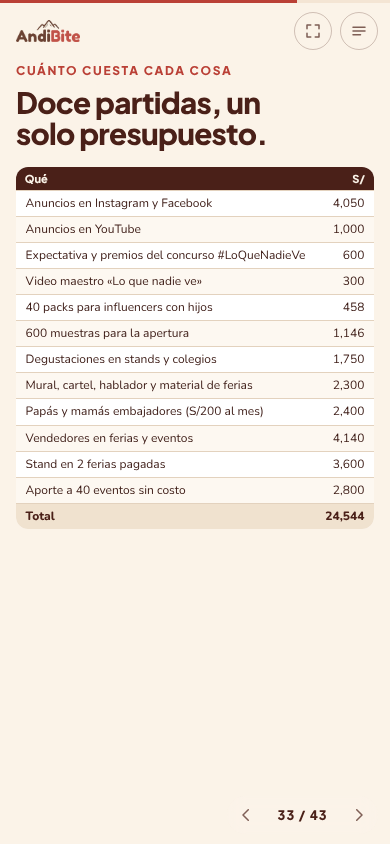
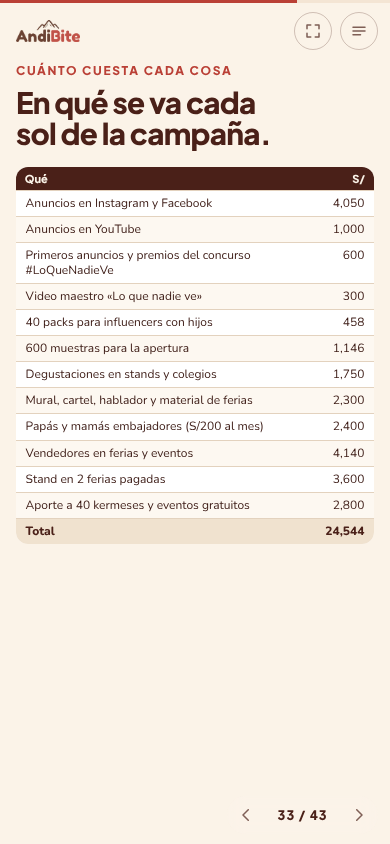
Campaña: ajustes de redacción y diseño en el capítulo reordenado
Claude-Session: https://claude.ai/code/session_01Kfbf7cfV7pXUcNjjyaPCzV

Changed region(s): [[0.0308, 0.2773, 0.9538, 0.6469], [0.0615, 0.0924, 0.6769, 0.1848]]

diff --git a/04-reformulacion/T2/web-presentacion/index.html b/04-reformulacion/T2/web-presentacion/index.html
@@ -623,7 +623,7 @@
         <ul>
           <li class="in"><i class="ico li-ico" data-icon="megaphone"></i>Publicas tu truco (video de 10 s o foto, sin tu hijo en cámara) con #LoQueNadieVe y nos etiquetas</li>
           <li class="in"><i class="ico li-ico" data-icon="chat"></i>Lo volvemos a publicar y la comunidad vota con sus me gusta</li>
-          <li class="in"><i class="ico li-ico" data-icon="star"></i>Los 3 trucos más votados abren el mural de Jockey Plaza y el adulto gana un mes de lonchera</li>
+          <li class="in"><i class="ico li-ico" data-icon="star"></i>Los 3 trucos más votados abren el mural de Jockey Plaza y quien lo publicó gana un mes de lonchera</li>
         </ul>
       </div>
       <div class="col col-mal">
@@ -645,11 +645,11 @@
     <p class="kicker in">Qué queremos lograr</p>
     <h2 class="title in">Cinco metas con fecha.</h2>
     <ol class="metas">
-      <li class="meta in"><b><span data-count="300">300</span></b><span><strong>trucos contados al 31 de enero de 2027:</strong> 150 publicados con #LoQueNadieVe y 150 escritos en el mural de Jockey Plaza. Se cuentan en la cuenta y en el mural.</span></li>
+      <li class="meta in"><b><span data-count="300">300</span></b><span><strong>trucos contados al 31 de enero de 2027:</strong> 150 publicados con #LoQueNadieVe y 150 escritos en el mural de Jockey Plaza. Se cuentan cada semana.</span></li>
       <li class="meta in"><b><span data-count="100">100</span></b><span><strong>familias en nuestro WhatsApp antes del 2 de enero</strong> y 500 seguidores al 31 de diciembre de 2026. Se miden en la lista de difusión y en Instagram.</span></li>
-      <li class="meta in"><b><span data-count="400000">400,000</span></b><span><strong>personas ven los videos en 2027;</strong> 4,100 hacen clic en «Pruébalo» o «Pídelo» y 613 escriben por WhatsApp. Se mide cada mes en Meta, YouTube y el WhatsApp de la marca.</span></li>
+      <li class="meta in"><b><span data-count="400000">400,000</span></b><span><strong>vistas de los videos en 2027;</strong> 4,100 hacen clic en «Pruébalo» o «Pídelo» y 613 escriben por WhatsApp. Se revisa cada mes en Meta, YouTube y WhatsApp.</span></li>
       <li class="meta in"><b><span data-count="3700">3,700</span></b><span><strong>brownies vendidos en enero y febrero</strong> y 52,331 en todo 2027 (S/244,728). Se cuentan cada fin de semana, punto por punto.</span></li>
-      <li class="meta in"><b><span data-count="35">35</span> %</b><span><strong>de lo vendido en físico vuelve a pedirse por WhatsApp</strong> y 2,300 familias con permiso al 31 de diciembre de 2027. Se mide cada mes en los pedidos y la lista.</span></li>
+      <li class="meta in"><b><span data-count="35">35</span> %</b><span><strong>de lo vendido en persona vuelve a pedirse por WhatsApp</strong> y 2,300 familias están en nuestra lista al 31 de diciembre de 2027. Se mide cada mes en los pedidos y la lista.</span></li>
     </ol>
   </div>
 </section>
@@ -665,8 +665,8 @@
         <p class="lead-dark in">por cada brownie vendido en 2027</p>
         <dl class="datos resumen-datos in">
           <div><dt>Cuándo</dt><dd>Octubre de 2026 a diciembre de 2027</dd></div>
-          <div><dt>Concepto</dt><dd>«Lo que nadie ve»: cada familia cuenta su truco</dd></div>
-          <div><dt>En la calle · 74 %</dt><dd>Stands, ferias, degustación, mural y embajadores</dd></div>
+          <div><dt>La idea</dt><dd>«Lo que nadie ve»: cada familia cuenta su truco</dd></div>
+          <div><dt>En la calle · 74 %</dt><dd>Stands, ferias, degustaciones, mural y embajadores</dd></div>
           <div><dt>Digital · 26 %</dt><dd>Instagram, Facebook, YouTube, WhatsApp e influencers</dd></div>
         </dl>
       </div>
@@ -687,22 +687,22 @@
 <section id="s-costos" data-sec="La campaña" data-title="Cuánto cuesta cada cosa" data-theme="light" data-background-color="#FBF3E8">
   <div class="frame">
     <p class="kicker in">Cuánto cuesta cada cosa</p>
-    <h2 class="title in">Doce partidas, un solo presupuesto.</h2>
+    <h2 class="title in">En qué se va cada sol de la campaña.</h2>
     <table class="tbl tbl-costos in">
       <thead><tr><th>Qué</th><th>Cuándo</th><th class="r">S/</th></tr></thead>
       <tbody>
         <tr><td>Anuncios en Instagram y Facebook</td><td>Enero a diciembre de 2027</td><td class="r">4,050</td></tr>
         <tr><td>Anuncios en YouTube</td><td>Enero a diciembre de 2027</td><td class="r">1,000</td></tr>
-        <tr><td>Expectativa y premios del concurso #LoQueNadieVe</td><td>Noviembre y diciembre de 2026</td><td class="r">600</td></tr>
+        <tr><td>Primeros anuncios y premios del concurso #LoQueNadieVe</td><td>Noviembre y diciembre de 2026</td><td class="r">600</td></tr>
         <tr><td>Video maestro «Lo que nadie ve»</td><td>Noviembre de 2026</td><td class="r">300</td></tr>
         <tr><td>40 packs para influencers con hijos</td><td>Diciembre de 2026</td><td class="r">458</td></tr>
         <tr><td>600 muestras para la apertura</td><td>Enero de 2027</td><td class="r">1,146</td></tr>
         <tr><td>Degustaciones en stands y colegios</td><td>Todo 2027</td><td class="r">1,750</td></tr>
-        <tr><td>Mural, cartel, hablador y material de ferias</td><td>Diciembre de 2026 a 2027</td><td class="r">2,300</td></tr>
+        <tr><td>Mural, cartel, hablador y material de ferias</td><td>Desde diciembre de 2026</td><td class="r">2,300</td></tr>
         <tr><td>Papás y mamás embajadores (S/200 al mes)</td><td>Enero a diciembre de 2027</td><td class="r">2,400</td></tr>
         <tr><td>Vendedores en ferias y eventos</td><td>Todo 2027</td><td class="r">4,140</td></tr>
         <tr><td>Stand en 2 ferias pagadas</td><td>Febrero y abril de 2027</td><td class="r">3,600</td></tr>
-        <tr><td>Aporte a 40 eventos sin costo</td><td>Todo 2027</td><td class="r">2,800</td></tr>
+        <tr><td>Aporte a 40 kermeses y eventos gratuitos</td><td>Todo 2027</td><td class="r">2,800</td></tr>
       </tbody>
       <tfoot><tr><td>Total</td><td>Quince meses</td><td class="r">24,544</td></tr></tfoot>
     </table>
@@ -713,7 +713,7 @@
 <section id="s-90" data-sec="La campaña" data-title="El truco corre de casa en casa" data-theme="dark" data-background-color="#4A2018">
   <div class="frame">
     <p class="kicker in">Cuatro etapas, de octubre de 2026 a diciembre de 2027</p>
-    <h2 class="title title-sm in">El truco corre de casa en casa.</h2>
+    <h2 class="title in">El truco corre de casa en casa.</h2>
     <div class="etapas">
       <div class="etapa e1 in"><span class="etapa-k">Prelanzamiento · oct a dic 2026</span><b>S/1,758</b><ul>
         <li>Instagram y WhatsApp abren con la pregunta “¿Cuál es tu truco?”</li>
@@ -747,7 +747,7 @@
       <div class="g-row"><span class="g-l">Influencers y concurso #LoQueNadieVe</span><span class="g-b b1" style="--s:2;--e:4"></span><span class="g-r">Angie · Patricia · Adela</span></div>
       <div class="g-row"><span class="g-l">Stands con el mural</span><span class="g-b b3" style="--s:4;--e:5"></span><span class="g-b b3" style="--s:11;--e:11"></span><span class="g-r">Carlos · vendedores</span></div>
       <div class="g-row"><span class="g-l">Ferias pagadas</span><span class="g-b b2" style="--s:5;--e:5"></span><span class="g-b b2" style="--s:7;--e:7"></span><span class="g-r">Carlos · Angie</span></div>
-      <div class="g-row"><span class="g-l">Anuncios en Meta y YouTube</span><span class="g-b b2" style="--s:4;--e:16"></span><span class="g-r">Angie</span></div>
+      <div class="g-row"><span class="g-l">Anuncios en Meta y YouTube</span><span class="g-b b2" style="--s:4;--e:15"></span><span class="g-r">Angie</span></div>
       <div class="g-row"><span class="g-l">Recompra por WhatsApp</span><span class="g-b b4" style="--s:4;--e:15"></span><span class="g-r">Coordinadora · Angie</span></div>
       <div class="g-row"><span class="g-l">Papás y mamás embajadores</span><span class="g-b b4" style="--s:4;--e:15"></span><span class="g-r">Carlos · coordinadora</span></div>
       <div class="g-row"><span class="g-l">«Escanea tu pack»</span><span class="g-b b1" style="--s:4;--e:7"></span><span class="g-b b1" style="--s:11;--e:11"></span><span class="g-r">Coordinadora · Angie</span></div>
@@ -765,7 +765,7 @@
     <div class="ad">
       <div class="ad-media in"><div class="media media-v" data-video="vid/anuncio_a.mp4" data-media="img/campana/campana_1.jpg" data-label="VIDEO Claudia" data-note="9:16 · 8 s"></div></div>
       <div class="ad-txt">
-        <p class="kicker in">Publicidad en redes y YouTube · Anuncio para Claudia · Lima Top</p>
+        <p class="kicker in">Anuncio en redes y YouTube · Para Claudia, de Lima Top</p>
         <h2 class="ad-hook in">“Confieso: el jugo verde nunca le dio superpoderes.”</h2>
         <p class="ad-body in">Leí etiquetas, licué espinaca y le inventé un superhéroe. El vaso volvía lleno. Ahora su hierro va escondido en un mini brownie que me pide, y en la app veo cuánto llevó hoy.</p>
         <div class="ad-ctas in"><span class="pieza-cta">Pruébalo en el stand</span><span class="pieza-cta cta-alt">Pídelo por WhatsApp</span></div>
@@ -786,7 +786,7 @@
     <div class="ad">
       <div class="ad-media in"><div class="media media-v" data-video="vid/anuncio_b.mp4" data-media="img/campana/campana_2.jpg" data-label="VIDEO Rodrigo" data-note="9:16 · 8 s"></div></div>
       <div class="ad-txt">
-        <p class="kicker in">Publicidad en redes y YouTube · Anuncio para Rodrigo · Lima Moderna</p>
+        <p class="kicker in">Anuncio en redes y YouTube · Para Rodrigo, de Lima Moderna</p>
         <h2 class="ad-hook in">“Mi truco: el que se lo acaba primero elige la música del carro.”</h2>
         <p class="ad-body in">Con el pan funcionaba. Con la menestra de la lonchera, ni con su canción favorita. Ahora lleva un mini brownie con hierro que se come sin carrera: la semana entera en un pack de 12 por WhatsApp.</p>
         <div class="ad-ctas in"><span class="pieza-cta">Pídelo por WhatsApp</span><span class="pieza-cta cta-alt">Pruébalo en el stand</span></div>
@@ -807,7 +807,7 @@
     <div class="ad">
       <div class="ad-media in"><div class="media media-v" data-video="vid/testimonial.mp4" data-media="img/campana/campana_3.jpg" data-label="VIDEO familia real" data-note="9:16 · 8 s"></div></div>
       <div class="ad-txt">
-        <p class="kicker in">Publicidad en redes y YouTube · Testimonial de una familia real</p>
+        <p class="kicker in">Anuncio en redes y YouTube · Testimonio de una familia real</p>
         <h2 class="ad-hook in">“Mi truco era decirle que el hígado era carne de dinosaurio.”</h2>
         <p class="ad-body in">“Ahora no le cuento nada: le mando su brownie y la lonchera vuelve vacía. Lo que antes no veía, su hierro de cada día, ahora lo veo en la app.”</p>
         <div class="ad-ctas in"><span class="pieza-cta">Pruébalo en el stand</span><span class="pieza-cta cta-alt">Pídelo por WhatsApp</span></div>
@@ -930,7 +930,7 @@
 <section id="a-presupuesto" class="annex" data-annex="1" data-sec="Anexos" data-title="Presupuesto de marketing" data-theme="light" data-background-color="#FBF3E8">
   <div class="frame">
     <p class="kicker">Anexo 1 · Presupuesto de marketing</p>
-    <h2 class="title title-sm">S/24,544 de octubre de 2026 a diciembre de 2027</h2>
+    <h2 class="title title-sm">S/24,544 de octubre de 2026 a diciembre de 2027.</h2>
     <div class="tables2">
       <table class="tbl">
         <thead><tr><th>Tipo de medio</th><th class="r">S/</th><th class="r">%</th></tr></thead>
@@ -959,7 +959,7 @@
 <section id="a-kpi" class="annex" data-annex="2" data-sec="Anexos" data-title="Control de KPI" data-theme="light" data-background-color="#FBF3E8">
   <div class="frame">
     <p class="kicker">Anexo 2 · Control de KPI (indicadores clave)</p>
-    <h2 class="title title-sm">KPI principales y qué hacemos si no se cumplen</h2>
+    <h2 class="title title-sm">KPI principales y qué hacemos si no se cumplen.</h2>
     <table class="tbl tbl-wide">
       <thead><tr><th>KPI</th><th>Meta 2027</th><th>Frecuencia</th><th>Si no se cumple</th></tr></thead>
       <tbody>
@@ -971,10 +971,10 @@
         <tr><td><b>Familias por embajadores</b></td><td>230 en el año</td><td>Mensual</td><td>Más salones o cambiar el premio (a papá o mamá)</td></tr>
         <tr><td><b>Colegios con quiosco</b></td><td>5 (2 A y 3 B)</td><td>Mensual</td><td>Visitar cadenas de pensión media</td></tr>
         <tr><td><b>Costo por contacto en Meta</b></td><td>S/5 o menos</td><td>Mensual</td><td>Más de S/8 por 2 meses: cambiar anuncio</td></tr>
-        <tr><td><b>Trucos contados</b></td><td>300 al 31 de enero (150 en redes, 150 en el mural)</td><td>Semanal</td><td>Más pauta al concurso y post-its en cada degustación</td></tr>
-        <tr><td><b>Videos vistos y clics</b></td><td>400,000 vistas y 4,100 clics en 2027</td><td>Mensual</td><td>Cambiar el gancho del anuncio que menos clics traiga</td></tr>
+        <tr><td><b>Trucos contados</b></td><td>300 al 31 de enero (150 en redes, 150 en el mural)</td><td>Semanal</td><td>Más anuncios para el concurso y post-its en cada degustación</td></tr>
+        <tr><td><b>Videos vistos y clics</b></td><td>400,000 vistas y 4,100 clics en 2027</td><td>Mensual</td><td>Cambiar el inicio del anuncio que traiga menos clics</td></tr>
         <tr><td><b>Conversaciones por WhatsApp desde anuncios</b></td><td>613 en 2027 (195 + 195 + 223)</td><td>Mensual</td><td>Probar otro llamado a la acción</td></tr>
-        <tr><td><b>Seguidores</b></td><td>500 en diciembre de 2026; 4,000 en diciembre de 2027</td><td>Mensual</td><td>Más trucos de la comunidad y menos producto</td></tr>
+        <tr><td><b>Seguidores</b></td><td>500 en diciembre de 2026; 4,000 en diciembre de 2027</td><td>Mensual</td><td>Publicar más trucos de las familias y menos producto</td></tr>
       </tbody>
     </table>
   </div>
@@ -983,16 +983,16 @@
 <section id="a-roi" class="annex" data-annex="3" data-sec="Anexos" data-title="Retorno (ROI)" data-theme="light" data-background-color="#FBF3E8">
   <div class="frame">
     <p class="kicker">Anexo 3 · Retorno de la inversión (ROI)</p>
-    <h2 class="title title-sm">Cada sol que ponen los socios devuelve S/0.42; cada sol de marketing, S/0.74.</h2>
+    <h2 class="title title-sm">En 2027, cada sol de los socios gana S/0.42 y cada sol de marketing, S/0.74.</h2>
     <table class="tbl tbl-wide">
       <thead><tr><th>Indicador</th><th>Valor</th><th>Qué significa</th></tr></thead>
       <tbody>
-        <tr><td><b>ROI del negocio, 2027</b></td><td class="em">42 %</td><td>Los socios ponen S/25,000. El primer año deja S/10,379 de utilidad neta: S/0.42 por cada sol puesto.</td></tr>
-        <tr><td><b>ROI de marketing, 2027</b></td><td class="em">74 %</td><td>Lo que dejan las ventas después de producir y pagar los stands es S/56,824. Tres cuartas partes (S/42,618) se deben a la campaña. Restando los S/24,544 invertidos quedan S/18,074: S/0.74 por cada sol de marketing.</td></tr>
-        <tr><td><b>Punto de empate de la campaña</b></td><td class="em">43 %</td><td>Si solo el 43 % de esas ventas viniera de la campaña, se recupera lo invertido sin ganar ni perder. Si fuera menos, la campaña pierde.</td></tr>
-        <tr><td><b>Resultado operativo, 2027</b></td><td class="em">S/13,423</td><td>6.5 % de las ventas. Desde marzo todos los meses ganan.</td></tr>
-        <tr><td><b>Inversión inicial</b></td><td class="em">S/40,876</td><td>S/25,000 de los socios y S/16,000 de préstamo. Se recupera en el mes 23 (noviembre de 2028).</td></tr>
-        <tr><td><b>2028</b></td><td class="em">S/322,329</td><td>70,452 brownies vendidos y S/28,447 de utilidad neta.</td></tr>
+        <tr><td><b>ROI del negocio, 2027</b></td><td class="em">42 %</td><td>Los socios ponen S/25,000. En el primer año, ya pagado todo, quedan S/10,379 de ganancia: S/0.42 por cada sol.</td></tr>
+        <tr><td><b>ROI de marketing, 2027</b></td><td class="em">74 %</td><td>Después de producir y pagar los stands, las ventas dejan S/56,824. Tres cuartas partes (S/42,618) llegan gracias a la campaña. Si le quitamos los S/24,544 que costó, quedan S/18,074: S/0.74 por cada sol.</td></tr>
+        <tr><td><b>Punto de empate de la campaña</b></td><td class="em">43 %</td><td>Basta con que el 43 % de esas ventas venga de la campaña para recuperar lo que costó. Con menos, la campaña pierde plata.</td></tr>
+        <tr><td><b>Resultado operativo, 2027</b></td><td class="em">S/13,423</td><td>Lo que gana el negocio antes de intereses e impuestos: 6.5 % de las ventas. Desde marzo, todos los meses dejan ganancia.</td></tr>
+        <tr><td><b>Inversión inicial</b></td><td class="em">S/40,876</td><td>Lo que hace falta para arrancar. Se cubre con S/25,000 de los socios y un préstamo de S/16,000, y se recupera en el mes 23 (noviembre de 2028).</td></tr>
+        <tr><td><b>2028</b></td><td class="em">S/322,329</td><td>Lo que venden 70,452 brownies. La ganancia final es S/28,447.</td></tr>
       </tbody>
     </table>
   </div>
@@ -1001,7 +1001,7 @@
 <section id="a-foda" class="annex" data-annex="4" data-sec="Anexos" data-title="FODA cruzado" data-theme="light" data-background-color="#FBF3E8">
   <div class="frame">
     <p class="kicker">Anexo 4 · FODA cruzado (fortalezas, oportunidades, debilidades y amenazas)</p>
-    <h2 class="title title-sm">Cuatro estrategias que ya están en el plan</h2>
+    <h2 class="title title-sm">Cuatro estrategias que ya están en el plan.</h2>
     <div class="foda">
       <div class="fq fq-fo"><b>FO · Explotar</b><p>Quioscos de colegios con la versión sin octógono (meta: 5). Recompra por WhatsApp con el aviso de la app.</p></div>
       <div class="fq fq-do"><b>DO · Superar</b><p>Degustación: el niño prueba y los padres deciden. Papás y mamás embajadores: 230 familias nuevas.</p></div>

diff --git a/04-reformulacion/T2/web-presentacion/src/style.css b/04-reformulacion/T2/web-presentacion/src/style.css
@@ -1402,3 +1402,20 @@ body.is-hero .ui-brand { visibility: hidden; }
 .resumen-datos dd { color: var(--tx); }
 .resumen-datos dt { color: var(--rojo); }
 @media (orientation: portrait), (max-width: 700px) { .etapa li:nth-child(n+2) { display: none; } .etapas { gap: 8px; } }
+
+/* ---- Diseñador: capítulo de campaña ---- */
+#s-gasto .big-md { font-size: clamp(44px, calc(4.2 * var(--u)), 84px); }
+#s-gasto .precio { margin-top: calc(1.6 * var(--u)); }
+#s-gasto .precio-l .lead-dark { max-width: none; text-wrap: balance; }
+.etapa-k { white-space: nowrap; letter-spacing: .06em; }
+#s-equipo .tm { align-items: start; align-content: start; padding-top: calc(1.5 * var(--u)); }
+#s-equipo .tm h3 { text-wrap: balance; }
+.media-bleed .ph { top: 50%; transform: translateY(-50%); width: 38%; aspect-ratio: 16 / 9; display: grid; place-content: center; }
+#s-dinamica .closer { text-wrap: balance; }
+@media (orientation: portrait), (max-width: 700px) {
+  #s-metas .metas { margin-top: 16px; align-content: start; }
+  #s-90 .etapas { margin-top: 16px; }
+  #s-dinamica .frame { justify-content: center; }
+  .etapa-k { white-space: normal; }
+  .media-bleed .ph { width: 70%; }
+}

diff --git a/04-reformulacion/T2/HECHOS_v7.md b/04-reformulacion/T2/HECHOS_v7.md
@@ -20,7 +20,7 @@
 - **Llamado a la acción:** siempre doble: "Pruébalo en el stand" y "Pídelo por WhatsApp". Meta Ads: "video para los padres".
 - **Campaña (decidida el 19-oct, segunda ronda): "Lo que nadie ve."** Idea: cada papá y cada mamá inventa trucos para que su hijo coma lo que le hace bien y nadie ve ese esfuerzo; AndiBite es "el truco que ya no necesita cuento" y la app muestra el hierro de cada día. Hashtag #LoQueNadieVe. Cartel del stand: "Aquí sí vemos tu truco." / "Cuéntanoslo y pruébalo con tu hijo." / slogan. Línea de cierre: "Lo que haces cada mañana, por fin se ve." Textos completos en `web-presentacion/CAMPANA-lo-que-nadie-ve.md`. Reemplaza a "Vuelve vacía" y a "Su prueba: la lonchera vacía…".
 - **Concurso #LoQueNadieVe (decidido el 19-oct-2026):** del 1 de noviembre al 20 de diciembre de 2026, papá o mamá publica su truco (sin el niño en cámara) con #LoQueNadieVe y etiquetando a @andibite.pe; la marca lo vuelve a publicar y ganan los 3 trucos con más "me gusta" en la cuenta de AndiBite al 31 de diciembre. Premio para el adulto: su truco abre el mural de Jockey Plaza el 2 de enero, y el adulto gana un mes de lonchera (4 packs de 12; S/236 en producto los tres). Sale de los S/600 de expectativa: S/360 de pauta y S/240 en premios; el total S/24,544 y el prelanzamiento S/1,758 no cambian. Es concurso por votos, sin azar; Adela confirma con la ONAGI (Ministerio del Interior; D. S. 006-2000-IN) antes del 1 de noviembre si necesita autorización, y publica las bases. Alimenta la meta de 100 familias en WhatsApp. En la presentación va en la pantalla 33 (tarjeta S/600), en la etapa de prelanzamiento, en el manifiesto ("Este diciembre sí los aplaudimos.") y en el Gantt.
-- **Capítulo de campaña reordenado (19-oct-2026, segunda ronda):** concepto (portada, insight, manifiesto) → la dinámica («Cuéntanos tu truco. Funcione o no, cuenta.»: en redes con #LoQueNadieVe y en el stand, donde la degustación es gratis a cambio de contar o escribir el truco) → cinco metas con fecha (300 trucos al 31-ene-2027: 150 en redes y 150 en el mural; 100 familias en WhatsApp antes del 2-ene y 500 seguidores al 31-dic-2026; 400,000 personas ven los videos en 2027, 4,100 clics al llamado a la acción y 613 conversaciones; 3,700 brownies en ene-feb y 52,331 en 2027; 35 % de recompra y 2,300 familias al 31-dic-2027) → la campaña en una pantalla (S/24,544, quince meses, 74 % calle / 26 % digital) → cuánto cuesta cada cosa (12 partidas) → etapas → Gantt → anuncios → primero lo cuentan ellos → stand. Las metas se redactan como objetivos medibles con fecha, sin usar la palabra "SMART". El anexo 2 de KPI suma trucos contados, vistas y clics, conversaciones y seguidores; el anexo 3 explica el ROI en palabras simples.
+- **Capítulo de campaña reordenado (19-oct-2026, segunda ronda):** concepto (portada, insight, manifiesto) → la dinámica («Cuéntanos tu truco. Funcione o no, cuenta.»: en redes con #LoQueNadieVe y en el stand, donde la degustación es gratis a cambio de contar o escribir el truco) → cinco metas con fecha (300 trucos al 31-ene-2027: 150 en redes y 150 en el mural; 100 familias en WhatsApp antes del 2-ene y 500 seguidores al 31-dic-2026; 400,000 personas ven los videos en 2027, 4,100 clics al llamado a la acción y 613 conversaciones; 3,700 brownies en ene-feb y 52,331 en 2027; 35 % de recompra y 2,300 familias al 31-dic-2027) → la campaña en una pantalla (S/24,544, quince meses, 74 % calle / 26 % digital) → cuánto cuesta cada cosa (12 partidas) → etapas → Gantt → anuncios → primero lo cuentan ellos → stand. Cada meta lleva número, cómo se mide y fecha, sin usar la palabra "SMART". El anexo 2 de KPI suma trucos contados, vistas y clics, conversaciones y seguidores; el anexo 3 explica el ROI en palabras simples.
 - **Pauta en YouTube (decidido el 19-oct-2026):** de los S/5,050 de pauta de 2027, S/4,050 van a Instagram y Facebook y S/1,000 a YouTube (el video maestro en 16:9 y los tres anuncios como Shorts). El presupuesto por anuncio (S/1,605 / S/1,605 / S/1,840) y las metas de conversaciones (195 / 195 / 223) no cambian. Sin paneles ni otro medio ATL.
 - **FODA cruzado, estrategia FA:** "Diferenciarse con el sabor y el formato lonchera; hablar de hierro, no de anemia." (antes: "con el dato del lote").
 - **Presentación web:** sin líneas de fuente (salvo la cifra de anemia: INS-CENAN 2025, 15.5 % en niños de 5 a 11 años, "1 de cada 6"), sin "supuesto", "estimado" ni "[POR CONFIRMAR]", sin "EXPOINNOVA". Las fechas y metas del plan se presentan como plan, con seguridad.

diff --git a/04-reformulacion/T2/web-presentacion/CAMPANA-lo-que-nadie-ve.md b/04-reformulacion/T2/web-presentacion/CAMPANA-lo-que-nadie-ve.md
@@ -211,12 +211,12 @@ La app es la parte de la idea que «muestra lo que nadie ve». Se ajustan tres t
 - **Marca registrada:** «de Hulk» queda solo en el manifiesto de la presentación, porque es como lo dicen los papás. En la pauta pagada se dice «superhéroe» o «superpoderes» (Hulk es una marca de Marvel).
 - **Antes de publicar:** revisar que #LoQueNadieVe no lo use otra marca en Perú, y pasar estos textos por el agente `t2-redactor`.
 
-## 11. Orden del capítulo en la presentación (decidido el 19-oct-2026)
+## 12. Orden del capítulo en la presentación (decidido el 19-oct-2026)
 
 1. Portada con el video maestro y el concepto «Lo que nadie ve».
 2. El insight y el manifiesto (la idea).
 3. **La dinámica:** «Cuéntanos tu truco. Funcione o no, cuenta.» En redes (#LoQueNadieVe, etiquetar, la comunidad vota, los 3 más votados abren el mural y el adulto gana un mes de lonchera) y en el stand (cuentas tu truco a cámara o lo escribes en el mural y la degustación va por nuestra cuenta; tu hijo prueba; te llevas tu pack y el QR abre la app).
-4. **Metas con fecha** (redactadas como objetivos medibles, sin decir «SMART»):
+4. **Metas con fecha** (cada una con número, cómo se mide y fecha; sin decir «SMART»):
    - 300 trucos contados al 31 de enero de 2027: 150 con #LoQueNadieVe y 150 en el mural de Jockey Plaza.
    - 100 familias en WhatsApp antes del 2 de enero y 500 seguidores al 31 de diciembre de 2026.
    - 400,000 personas ven los videos en 2027; 4,100 hacen clic en «Pruébalo» o «Pídelo» y 613 escriben por WhatsApp (195 + 195 + 223). Salen del cálculo del documento 17: CPM S/12.69, CPC S/1.235, 15 % de clic a contacto.
